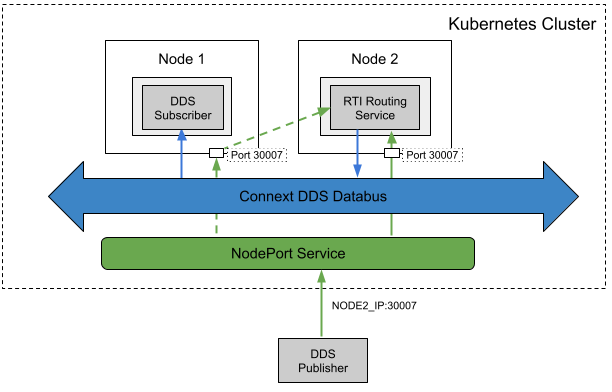
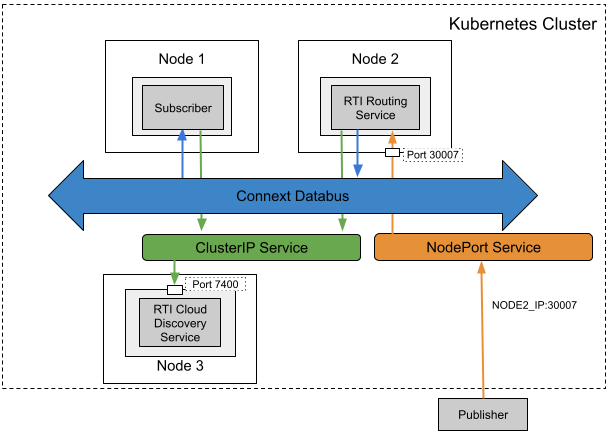
updated rs rwt example

diff --git a/rs_rwt/README.md b/rs_rwt/README.md
@@ -3,28 +3,23 @@
 
 ### Problem
 
-You want to expose DDS applications outside a k8s cluster.
-
-k8s creates a virtual network and each pod is given a virtual IP address. Because of that, applications in a k8s cluster cannot be directly communicated from applications outside of the cluster. This can be a matter if there are applications outside of a k8s cluster that need to exchange messages with applications running in the cluster. 
-
+When integrating DDS applications with a Kubernetes (k8s) cluster, the internal virtual network structure poses challenges. Each pod in a k8s cluster is assigned a virtual IP address, which is not directly accessible from outside the cluster. This isolation complicates direct communications with external applications that need to exchange data with applications running inside the cluster.
 
 ### Solution
 
-To resolve this, **RTI Routing Service** is used to bridge internal and external DDS applications along with **Real-time WAN Transport**. A **NodePort Service** exposes a service on a static port on the node IP address. We used a NodePort Service to expose the internal RTI Routing Service (in the cluster) on each Node’s IP that can be reached by external participants. 
-
+To establish communication between internal and external DDS applications, we employ the **RTI Routing Service (RTI RS)** combined with **Real-time WAN Transport** as a gateway. A NodePort service is configured to expose the RTI Routing Service on a static port at each node's IP address, enabling external applications to interact with applicaitons within the cluster.
 
 #### Required Components:
 
-* **DDS Publisher** and **DDS Subscriber** are example applications that need to exchange data. 
-* **Routing Service**: A bridge service residing in the k8s cluster that forwards data from the **external DDS Publisher** to the **internal DDS Subscriber**. 
-* **NodePort Service**: We create a **NodePort Service** that exposes the **Routing Service** on each Node’s IP at a static port (e.g. Port 30007 in the figure). Then, the **external participant (DDS Publisher)** can contact the **Routing Service** by requesting NodeIP:NodePort (e.g. NODE2_IP:30007 in the figure). 
+* **DDS Publisher and Subscriber**: These are example applications that demonstrate the data exchange.
+* **Routing Service**: Acts as a gateway within the k8s cluster, forwarding data from the external DDS Publisher to the internal DDS Subscriber.
+* **NodePort Service**: Created to expose the Routing Service on each node’s IP at a specified static port (e.g., Port 30007 as shown in the example diagram). External participants can access the Routing Service by using the address format NodeIP:NodePort (e.g., NODE2_IP:30007).
 
 ![Exposing DDS Applications with Real-time WAN Transport](routingservice_rwt.png)
-(ADD CDS TO THE DIAGRAM)
 
 ### Required Docker Images
-- [RTI Routing Service](../dockerfiles/rti_routingservice)
-- [RTI Cloud Discovery Service](../dockerfiles/rti_clouddiscoveryservice)
+- [RTI Routing Service (RS)](../dockerfiles/rti_routingservice)
+- [RTI Cloud Discovery Service (CDS)](../dockerfiles/rti_clouddiscoveryservice)
 - [RTI DDS Ping Subscriber](../dockerfiles/rti_ddsping_sub)
 
 ### Steps
@@ -32,20 +27,33 @@ To resolve this, **RTI Routing Service** is used to bridge internal and external
 #### 1. Create a ConfigMap for RTI License.
 `$ kubectl create configmap rti-license --from-file rti_license.dat`
 
-#### 2. Create a Deployment and a Service for Cloud Discovery Service.
+This command creates a ConfigMap to store the RTI License, which is necessary for running RTI CDS and RTI RS in the evaluation package.
+
+#### 2. Create a Deployment and a ClusterIP Service for Cloud Discovery Service.
 `$ kubectl create -f rticlouddiscoveryservice.yaml`
+
+Use this command to create a Deployment and a Service for RTI CDS. RTI CDS is used for discovery between internal DDS Subscriber and RTI RS. 
 
 #### 3. Create a ConfigMap for the Routing Service XML configuration file
 `$ kubectl create configmap routingservice-rwt --from-file=config.xml`
 
-#### 4. Create a Deployment for the Routing Service. You should update the public IP address and ports in this file.
-`$ kubectl create -f rs-statefulset.yaml`
+This command creates a ConfigMap to store the Routing Service XML configuration file (config.xml). You can update the configuration file as needed. 
 
-#### 5. Create a NodePort Service for the Routing Service
-`$ kubectl create -f rs-nodeport.yaml`
+#### 4. Create a StatefulSet for Routing Service. 
+`$ kubectl create -f rtiroutingservice.yaml`
 
-#### 6. Create a Deployment for a RTI DDS Ping subscriber
+Use this command to create a StatefulSet and NodePort service for RTI RS. 
+
+**(NOTE: You should update the public IP address and ports in this file).***
+
+#### 5. Create a Deployment for a RTI DDS Ping subscriber
 `$ kubectl create -f rtiddsping-sub.yaml`
 
-#### 7. Run the external publisher (outside the cluster). You should update the public IP address and ports in this file.
+This command deploys the internal RTI DDS Ping Publisher, which can use CDS for discovering the RTI RS within the cluster.
+
+#### 6. Run the external publisher (outside the cluster). 
 `$ rtiddsping -qosFile rwt_participant.xml -qosProfile RWT_Demo::RWT_Profile -publisher -domainId 100`
+
+Now, all components are running within the k8s cluster. You can use this command to run an external DDS Publisher application. 
+
+**(NOTE: You should update the public IP address and ports in this file).**
